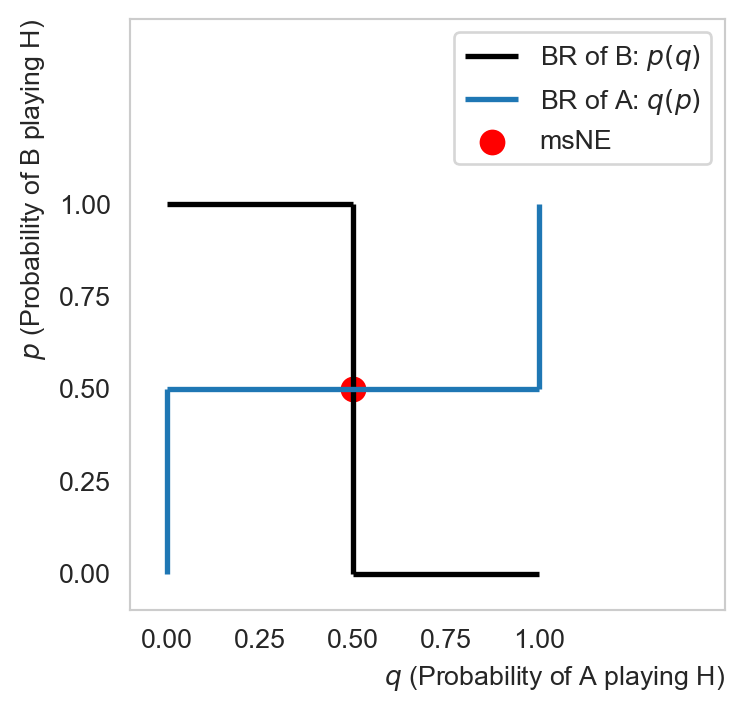
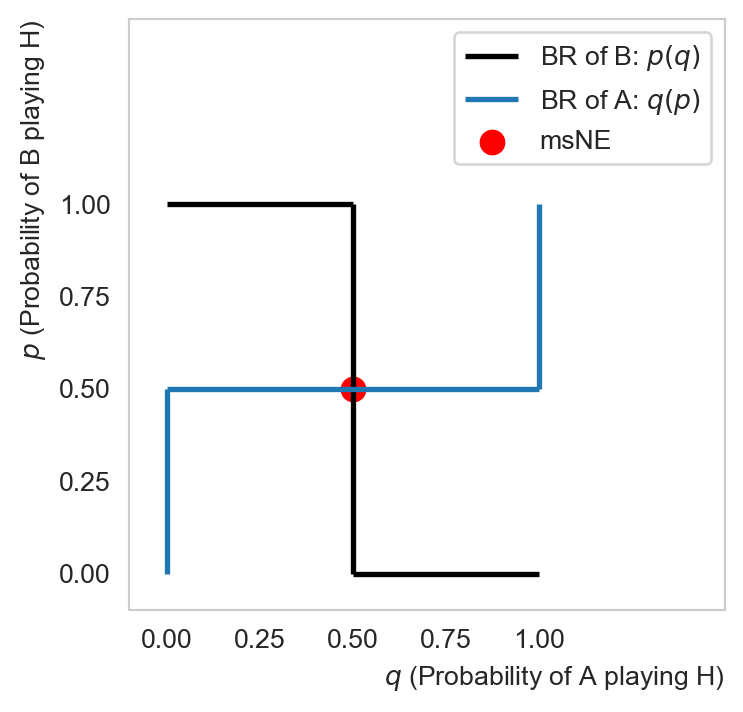
fixed definition of normal form in Ch5

diff --git a/docs/contents/lecture_5.html b/docs/contents/lecture_5.html
@@ -460,7 +460,7 @@ window.Quarto = {
     <div>
     <div class="quarto-title-meta-heading">Author</div>
     <div class="quarto-title-meta-contents">
-             <p>My Dam <a href="mailto:my-thi-tra.dam@universite-paris-saclay.fr" class="quarto-title-author-email"><i class="bi bi-envelope"></i></a> </p>
+             <p>My Dam <a href="mailto:my.dam169@gmail.com" class="quarto-title-author-email"><i class="bi bi-envelope"></i></a> </p>
           </div>
   </div>
     
@@ -520,13 +520,14 @@ window.Quarto = {
 </section>
 <section id="graphical-representation-of-games" class="level1" data-number="3">
 <h1 data-number="3"><span class="header-section-number">3</span> Graphical representation of games</h1>
-<p>There are two ways to represent a game: by means of a matrix (normal form) or a game tree (extensive form).</p>
+<p>There are two broad ways to represent a game, depending on what we need to capture: the normal form records what players choose and the resulting payoffs, while the extensive form additionally records the order of moves and what each player knows at the time they move.</p>
 <section id="normal-form" class="level2" data-number="3.1">
 <h2 data-number="3.1" class="anchored" data-anchor-id="normal-form"><span class="header-section-number">3.1</span> Normal form</h2>
-<p>The normal form is the representation of a game using a matrix whose columns and rows represent all possible outcomes. It is best used to represent games of simultaneous moves where order of play is not important.</p>
+<p>In the normal form, every player picks a strategy independently and simultaneously — imagine each player sealing their choice in an envelope at the same time, with no one able to peek at anyone else’s before all envelopes are opened together. The game is then fully described by the payoff each player receives for every possible combination of sealed choices (see <a href="#def-normalForm" class="quarto-xref">Definition&nbsp;4</a> for the formal statement).</p>
+<p>In the case of two players, the normal form of a game can be represented using a matrix: one player’s strategies index the rows, the other’s index the columns, and each cell lists the pair of payoffs resulting from that combination of choices — the first number for the player whose strategies show up on each row, the second for the player whose strategies show up on each column. This is the representation used in most of the examples below, though not every normal-form game can be drawn this way (the Cournot model later in this chapter, where firms choose quantities from a continuum, is a normal-form game with no matrix to draw).</p>
 <section id="pure-strategy-nash-equilibrium" class="level3" data-number="3.1.1">
 <h3 data-number="3.1.1" class="anchored" data-anchor-id="pure-strategy-nash-equilibrium"><span class="header-section-number">3.1.1</span> Pure strategy Nash equilibrium</h3>
-<p>In the examples that follow, the first number represents the payoff to the player whose strategies show up on each row of the matrix. The second number reprsents the payoff to the player whose strategies show up on each column.Let us try to determine the best responses and the Nash equilibrium of each game. The NE that consists of a strategies that each player chooses with certainty is called <strong>a pure strategy NE</strong>. We will see that not all games have a pure strategy NE but if we allow players to choose certain strategies probablistically (as is often the case in sports), then a NE generally exists. This type of NE is called a <strong>mixed strategy NE</strong>.</p>
+<p>Let us try to determine the best responses and the Nash equilibrium of each game. The NE that consists of a strategies that each player chooses with certainty is called <strong>a pure strategy NE</strong>. We will see that not all games have a pure strategy NE but if we allow players to choose certain strategies probablistically (as is often the case in sports), then a NE generally exists. This type of NE is called a <strong>mixed strategy NE</strong>.</p>
 <div id="exm-pennies" class="theorem example">
 <p><span class="theorem-title"><strong>Example 3</strong></span> &nbsp;</p>
 <div id="fig-pmatch" class="quarto-float quarto-figure quarto-figure-center anchored">
@@ -895,7 +896,7 @@ p(q) = \begin{cases}
 <div id="fig-msNE" class="quarto-float quarto-figure quarto-figure-center anchored">
 <figure class="quarto-float quarto-float-fig figure">
 <div aria-describedby="fig-msNE-caption-0ceaefa1-69ba-4598-a22c-09a6ac19f8ca">
-<div id="6068c392" class="cell" data-execution_count="5">
+<div id="77a73aca" class="cell" data-execution_count="5">
 <div class="cell-output cell-output-display">
 <div>
 <figure class="figure">
@@ -915,7 +916,7 @@ Figure&nbsp;6: Best response functions and msNE in the pennies matching game
 </section>
 <section id="extensive-form" class="level2" data-number="3.2">
 <h2 data-number="3.2" class="anchored" data-anchor-id="extensive-form"><span class="header-section-number">3.2</span> Extensive form</h2>
-<p>The extensive form of the game records not just the outcomes but also the dynamic of the game. For this reason, it is often used to represent sequential games in which the order of play is important. Indeed, taking out the game dynamic and collapsing it into a matrix typically results in too many equilibria, as we see in <a href="#fig-normFormExtGame" class="quarto-xref">Figure&nbsp;8</a>. In particular, the normal form representation provies two equilibria: (In, Accommodate) and (Out, Price War). Nevertheless, if we examine the game in extensive form using backward induction (starting from the end nodes), it is clear that the best response of the incumbent (P2) to the entrant’s “In” is to accommodate. Knowing this, the incumbent would choose to go in. Hence the only equilibrium of the game would be (In, Accommodate). The equilibrium (Out, Price War) is described as <em>sequentially irrational</em> because it is not a NE in the subgame starting from the decision node of the incumbent. In dynamic games, we would like to rule out such irrational equilibria, hence the need for the more refined solution concept of <strong>subgame-perfect equilibrium</strong>(<a href="#def-SPE" class="quarto-xref">Definition&nbsp;9</a>).</p>
+<p>The extensive form of the game records not just the outcomes but also the dynamic of the game. For this reason, it is often used to represent sequential games in which the order of play is important. Indeed, taking out the game dynamic and collapsing it into a matrix typically results in too many equilibria, as we see in <a href="#fig-normFormExtGame" class="quarto-xref">Figure&nbsp;8</a>. In particular, the normal form representation provies two equilibria: (In, Accommodate) and (Out, Price War). Nevertheless, if we examine the game in extensive form using backward induction (starting from the end nodes), it is clear that the best response of the incumbent (P2) to the entrant’s “In” is to accommodate. Knowing this, the incumbent would choose to go in. Hence the only equilibrium of the game would be (In, Accommodate). The equilibrium (Out, Price War) is described as <em>sequentially irrational</em> because it is not a NE in the subgame starting from the decision node of the incumbent. In dynamic games, we would like to rule out such irrational equilibria, hence the need for the more refined solution concept of <strong>subgame-perfect equilibrium</strong>(<a href="#def-SPE" class="quarto-xref">Definition&nbsp;10</a>).</p>
 <div id="fig-extForm" class="quarto-float quarto-figure quarto-figure-center anchored">
 <figure class="quarto-float quarto-float-fig figure">
 <div aria-describedby="fig-extForm-caption-0ceaefa1-69ba-4598-a22c-09a6ac19f8ca">
@@ -1271,13 +1272,22 @@ s \in \{(H,T), (T,H), (T,T), (H,H)\}.
 <p><span class="theorem-title"><strong>Definition 3 (Payoff function)</strong></span> The payoff function of a player <span class="math inline">\(i\)</span> is a mapping from a strategy profile to a real number <span class="math inline">\(u_i : S_i \times S_{-i} \to \mathbb{R}.\)</span></p>
 </div>
 <p>Observe that the payoff of a player typically depends on the strategies selected by the others. This is the <em>strategic</em> property of games.</p>
+<div id="def-normalForm" class="theorem definition">
+<p><span class="theorem-title"><strong>Definition 4 (Normal form (strategic form))</strong></span> A game in normal form (or strategic form) is a triple <span class="math inline">\(G = \big(N, \{S_i\}_{i=1}^N, \{u_i\}_{i=1}^N\big)\)</span>, where:</p>
+<ul>
+<li><span class="math inline">\(N\)</span> is the number of players,</li>
+<li><span class="math inline">\(S_i\)</span> is the strategy set of player <span class="math inline">\(i\)</span>, for <span class="math inline">\(i=1,\dots,N\)</span>,</li>
+<li><span class="math inline">\(u_i : S_1 \times S_2 \times \cdots \times S_N \to \mathbb{R}\)</span> is the payoff function of player <span class="math inline">\(i\)</span> (<a href="#def-payoff" class="quarto-xref">Definition&nbsp;3</a>), mapping each strategy profile <span class="math inline">\(s=(s_1,\dots,s_N)\)</span> (<a href="#def-strategyProfile" class="quarto-xref">Definition&nbsp;2</a>) to a real number.</li>
+</ul>
+<p>When <span class="math inline">\(N=2\)</span> and both strategy sets are finite, <span class="math inline">\(G\)</span> can be represented as a matrix: one player’s strategies index the rows, the other’s index the columns, and each cell <span class="math inline">\((s_1,s_2)\)</span> lists the payoff pair <span class="math inline">\((u_1(s_1,s_2), u_2(s_1,s_2))\)</span> — the convention used in every matrix game in this chapter.</p>
+</div>
 <div id="def-weakDom" class="theorem definition">
-<p><span class="theorem-title"><strong>Definition 4 (Strategic dominance)</strong></span> Strategy <span class="math inline">\(s_i\)</span> is a weakly dominant strategy of player <span class="math inline">\(i\)</span> if <span id="eq-weak-dom"><span class="math display">\[
+<p><span class="theorem-title"><strong>Definition 5 (Strategic dominance)</strong></span> Strategy <span class="math inline">\(s_i\)</span> is a weakly dominant strategy of player <span class="math inline">\(i\)</span> if <span id="eq-weak-dom"><span class="math display">\[
 u_i(s_i, s_{-i}) \geq u_i(s_j, s_{-i}),
 \tag{5}\]</span></span> for every <span class="math inline">\(s_i \neq s_j\)</span> and <span class="math inline">\(s_{-i}\)</span> selected by the other players. If the inequality sign in condition <a href="#eq-weak-dom" class="quarto-xref">5</a> is strict, then <span class="math inline">\(s_i\)</span> is called a strictly dominant strategy. If the inequality sign reverses direction, then player <span class="math inline">\(i\)</span> views <span class="math inline">\(s_i\)</span> as a weakly dominated strategy (strictly dominated if the inequality sign is strict.)</p>
 </div>
 <div id="def-bestResponse" class="theorem definition">
-<p><span class="theorem-title"><strong>Definition 5 (Best response)</strong></span> The strategy <span class="math inline">\(s_i\)</span> of player <span class="math inline">\(i\)</span> is called the best response to her opponents’ strategy profile <span class="math inline">\(s_{-i}\)</span> if: <span id="eq-BRdef"><span class="math display">\[
+<p><span class="theorem-title"><strong>Definition 6 (Best response)</strong></span> The strategy <span class="math inline">\(s_i\)</span> of player <span class="math inline">\(i\)</span> is called the best response to her opponents’ strategy profile <span class="math inline">\(s_{-i}\)</span> if: <span id="eq-BRdef"><span class="math display">\[
 u_i(s_i, s_{-i}) \geq u_i(s_j, s_{-i}), \quad\forall j\neq i.
 \tag{6}\]</span></span> We often write: <span id="eq-BRcorr"><span class="math display">\[
 s_i \in BR_i(s_{-i}).
@@ -1290,18 +1300,18 @@ s_i \in BR_i(s_{-i}).
 <p><span class="proof-title"><em>Remark 2</em>. </span>Observe that a dominant strategy is a best response, but not conversely. In order for a best response to be a dominant strategy, condition <a href="#eq-BRdef" class="quarto-xref">6</a> has to hold for <em>every possible</em> strategy profile selected by the other players. In other words, whatever the strategies selected by the other player(s), the best response remains the same for player <span class="math inline">\(i.\)</span> Strategic dominance is thus a much stronger than best response.</p>
 </div>
 <div id="def-NashEqm" class="theorem definition">
-<p><span class="theorem-title"><strong>Definition 6 (Nash equilibrium)</strong></span> A strategy profile <span class="math inline">\(s^*=(s^*_i, s^*_{-i})\)</span> is a Nash equilibrium if every player plays their best reponse given their opponnents’ strategies, that is: <span id="eq-NE"><span class="math display">\[
+<p><span class="theorem-title"><strong>Definition 7 (Nash equilibrium)</strong></span> A strategy profile <span class="math inline">\(s^*=(s^*_i, s^*_{-i})\)</span> is a Nash equilibrium if every player plays their best reponse given their opponnents’ strategies, that is: <span id="eq-NE"><span class="math display">\[
 s^*_i \in BR_i(s^*_{-i}),\quad \forall i=1,...,N.
 \tag{8}\]</span></span></p>
 </div>
 <div id="def-infoSet" class="theorem definition">
-<p><span class="theorem-title"><strong>Definition 7 (Information set)</strong></span> In the context of extensive form games, an information set faced by a player is a set that connects all the nodes that the player cannot distinguish.</p>
+<p><span class="theorem-title"><strong>Definition 8 (Information set)</strong></span> In the context of extensive form games, an information set faced by a player is a set that connects all the nodes that the player cannot distinguish.</p>
 </div>
 <div id="def-subgame" class="theorem definition">
-<p><span class="theorem-title"><strong>Definition 8 (Subgame)</strong></span> A subgame is a portion of an extensive-form game that contains a decision node and all subsequent nodes following it. Graphically, if we draw a circle around a subgame, then this circle cannot cross any information set: every subgame must contain all its information sets. The presence of information sets thus reduces the number of subgames.</p>
+<p><span class="theorem-title"><strong>Definition 9 (Subgame)</strong></span> A subgame is a portion of an extensive-form game that contains a decision node and all subsequent nodes following it. Graphically, if we draw a circle around a subgame, then this circle cannot cross any information set: every subgame must contain all its information sets. The presence of information sets thus reduces the number of subgames.</p>
 </div>
 <div id="def-SPE" class="theorem definition">
-<p><span class="theorem-title"><strong>Definition 9 (Subgame-perfect equilibrium)</strong></span> A strategy profile <span class="math inline">\((s_i^*, s^*_{-i})\)</span> is a SPE if it specifies a Nash equilibrium in each subgame.</p>
+<p><span class="theorem-title"><strong>Definition 10 (Subgame-perfect equilibrium)</strong></span> A strategy profile <span class="math inline">\((s_i^*, s^*_{-i})\)</span> is a SPE if it specifies a Nash equilibrium in each subgame.</p>
 </div>
 </section>
 <section id="applications-to-imperfect-competition" class="level1" data-number="5">
@@ -1336,7 +1346,7 @@ q_2 &amp;=  \frac{a - c}{2b} - \frac{q_1}{2}.
 <div id="fig-cournot-game" class="quarto-float quarto-figure quarto-figure-center anchored">
 <figure class="quarto-float quarto-float-fig figure">
 <div aria-describedby="fig-cournot-game-caption-0ceaefa1-69ba-4598-a22c-09a6ac19f8ca">
-<div id="8c0ec43d" class="cell" data-execution_count="6">
+<div id="12564dd0" class="cell" data-execution_count="6">
 <div class="cell-output cell-output-display">
 <div>
 <figure class="figure">
